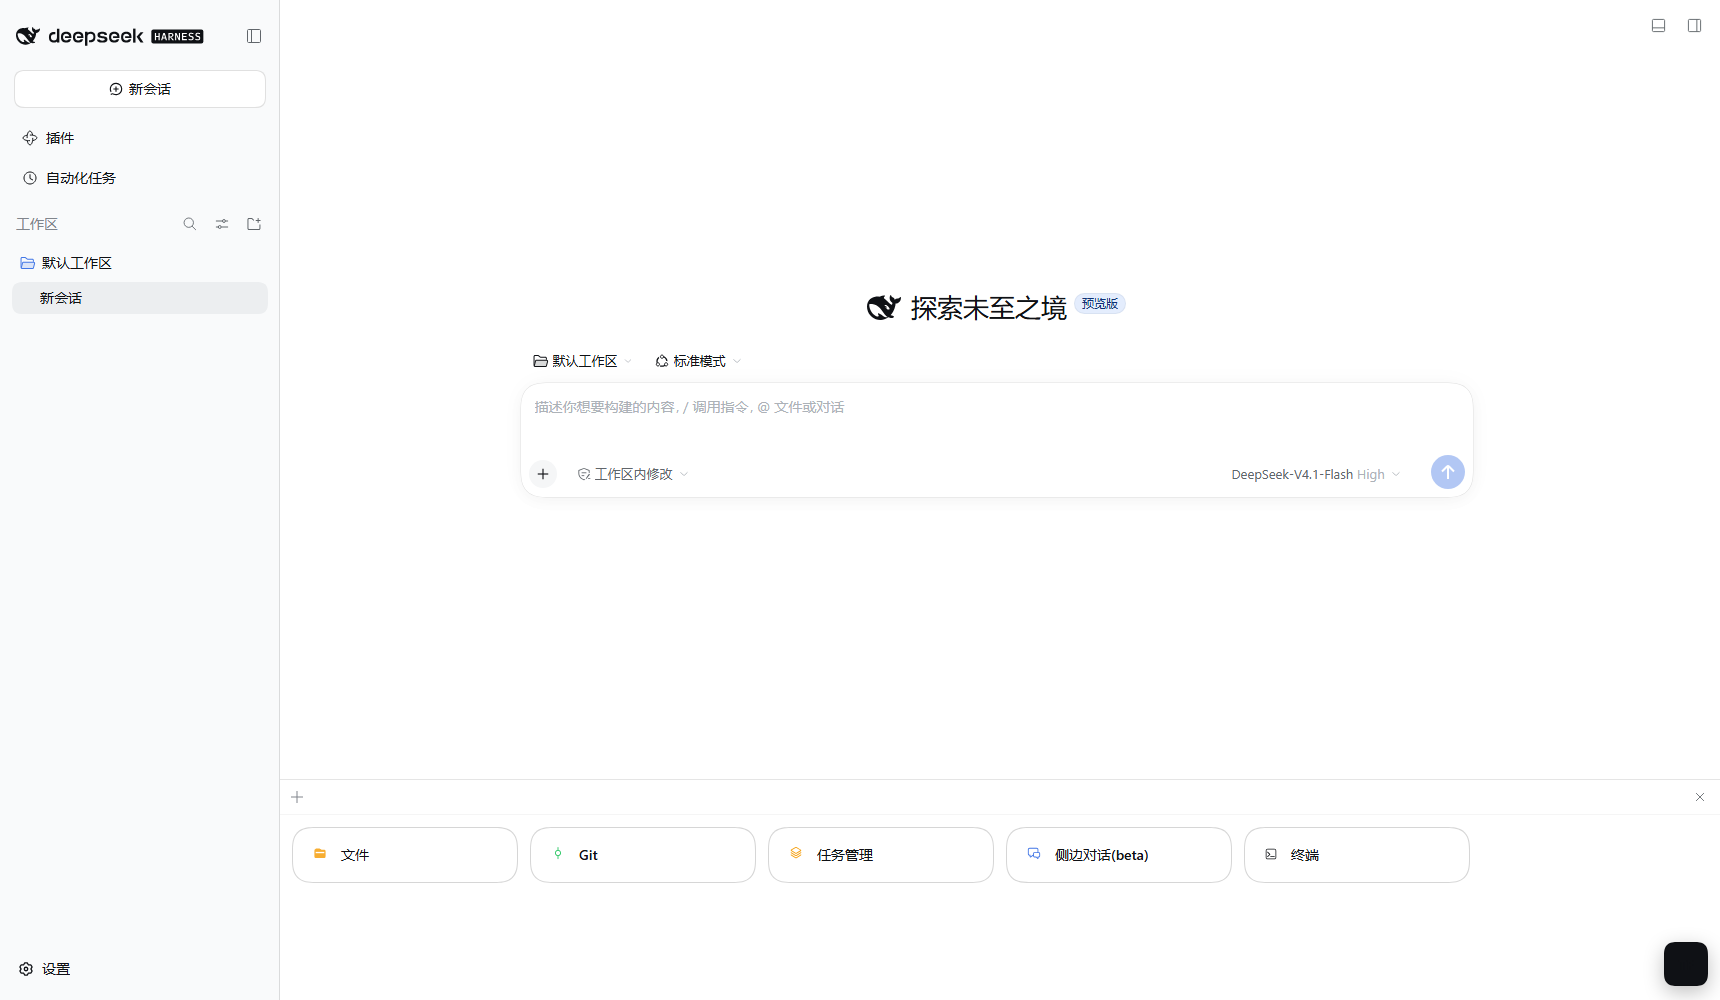
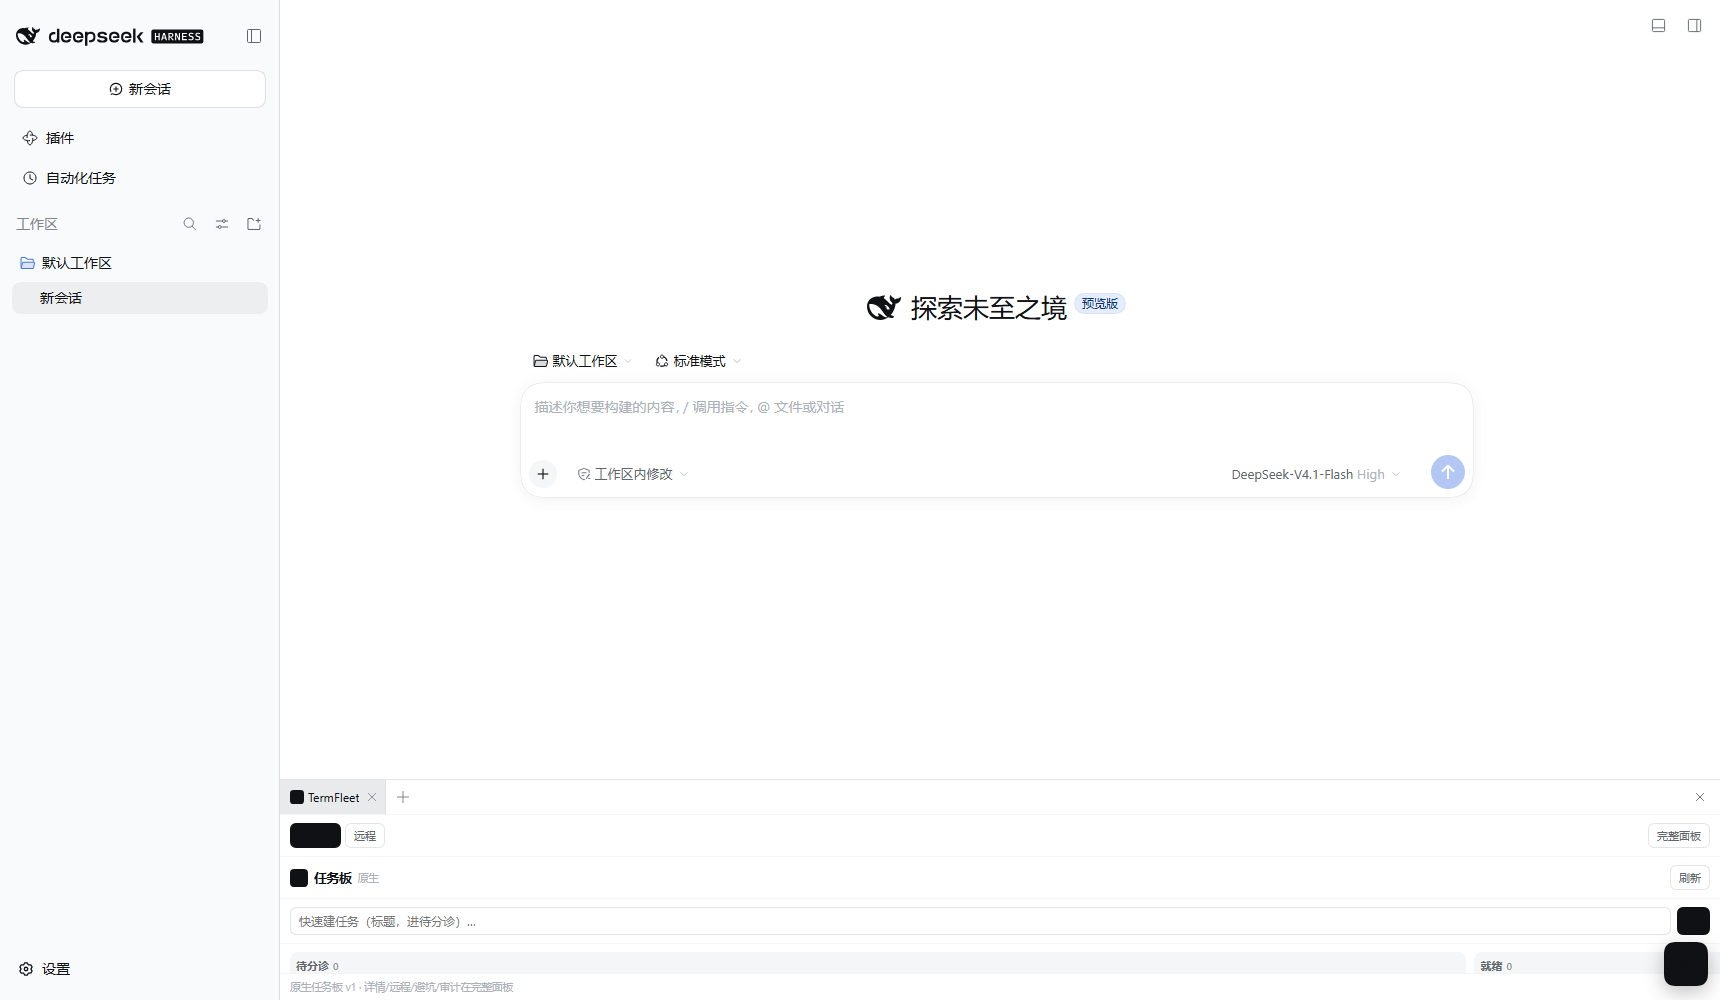
修复(用户活体报告 TF 一片空白):根因=better-sidebar 0.28 载入后其 dock 接管 pane 渲染,只渲染经 betterSidebar.registerTab 服务注册的 tab,直连 sidebarRightTabs 的注册被吞(fiber 解剖宿主 pane 注册表七项无 dsh-termfleet 实证);修复照搬 hippo 0.5 双路径模式——betterSidebar 服务在场改走 registerTab({component})并 dispose 直连,不在场保持直连;注意不把 betterSidebar 放 exports.inject(老宿主无此

diff --git a/lib/client.js b/lib/client.js
@@ -567,52 +567,76 @@ window.__ModuleLoader__.load({
 			];
 		}
 
-		// ── 导出（client cordis：inject 声明服务，apply 注册槽位） ──
+		// ── 导出（client cordis：inject 声明服务，apply 注册槽位）──
+		// 注意：不把 "betterSidebar" 放进 exports.inject（老宿主没有该服务会整插件激活失败）——
+		// better-sidebar 双路径走 apply 内的动态 ctx.inject（照 hippo 模式）。
 		exports.inject = ["slots", "sidebarRightTabs"];
 		exports.apply = function (ctx) {
 			try {
-				// 1) 官方右侧栏 tab 类型定义（与 dsh-client-ui-sidebar-files 同款 effect 包裹）
-				ctx.effect(function () {
-					return ctx.sidebarRightTabs.register({
-						id: "dsh-termfleet",
-						kind: "termfleet",
-						priority: "builtin",
-						title: function () { return "TermFleet"; },
-						guide: [{
-							order: 50,
-							title: function () { return "TermFleet 团队驾驶舱"; },
+				var disposeDirect = null;
+				var disposeBs = null;
+				// 直连路径：无 better-sidebar 时的注册方式（better-sidebar.tab 定义 + pane body/title + 0.1 utilities）
+				function registerDirect() {
+					if (disposeDirect) return;
+					var disposers = [];
+					disposers.push(ctx.effect(function () {
+						return ctx.sidebarRightTabs.register({
+							id: "dsh-termfleet",
+							kind: "termfleet",
+							keepMounted: true,
+							title: function () { return "TermFleet"; },
+							guide: [{
+								order: 50,
+								title: function () { return "TermFleet 团队驾驶舱"; },
+								description: function () { return "任务 / 远程 / 避坑 / 审计 · 全过统一同意总线"; },
+								icon: TfGuideIcon
+							}]
+						});
+					}, "dsh-termfleet: tab definition (key=termfleet)"));
+					disposers.push(ctx.slots.inject("sidebar.right.pane.tab", function () {
+						return ctx.slots.register(
+							{ name: "sidebar.right.pane.tab", key: "dsh-termfleet", registrant: "dsh-termfleet" },
+							function () { return h(TfTabBody); }
+						);
+					}));
+					disposers.push(ctx.slots.inject("sidebar.right.pane.tab.title", function () {
+						return ctx.slots.register(
+							{ name: "sidebar.right.pane.tab.title", key: "dsh-termfleet", registrant: "dsh-termfleet" },
+							function () { return h(TfTabTitle); }
+						);
+					}));
+					disposers.push(ctx.slots.inject("conversation.session.header.utilities", function () {
+						return ctx.slots.register(
+							{ name: "conversation.session.header.utilities", id: "dsh-termfleet:entry", order: 20, registrant: "dsh-termfleet" },
+							function () { return h(EntryPanel); }
+						);
+					}));
+					disposeDirect = function () { disposers.forEach(function (d) { try { d() } catch (e) { /* 幂等 */ } }) };
+				}
+				function disposeDirectAll() { if (disposeDirect) { disposeDirect(); disposeDirect = null } }
+				registerDirect();
+				// better-sidebar 0.28+ 双路径（照 hippo 模式）：其 "betterSidebar" 服务在场时改走 registerTab——
+				// 0.28 的 dock 会吞掉直连 sidebarRightTabs 的 tab（2026-10-15 实测：tab 从 pane 注册表消失）。
+				// 老宿主没有该服务时 ctx.inject 不触发，直连注册保持。
+				try {
+					ctx.inject(["betterSidebar"], function (sc) {
+						var svc = (sc && sc.get && sc.get("betterSidebar")) || null;
+						if (!svc || typeof svc.registerTab !== "function") return;
+						disposeDirectAll();
+						disposeBs = svc.registerTab({
+							id: "dsh-termfleet",
+							title: function () { return "TermFleet"; },
 							description: function () { return "任务 / 远程 / 避坑 / 审计 · 全过统一同意总线"; },
-							icon: TfGuideIcon
-						}]
+							icon: function (size) { return TfGuideIcon({ size: size }) },
+							order: 60,
+							single: true,
+							component: function () { return h(TfTabBody) }
+						});
+						return function () { if (disposeBs) { try { disposeBs() } catch (e) { /* 幂等 */ } } disposeBs = null; registerDirect(); };
 					});
-				}, "dsh-termfleet: tab definition (key=termfleet)");
+				} catch (e) { /* 宿主不支持动态服务注入：直连路径保持 */ }
 
-				// 2) 官方右侧栏 tab 主体
-				ctx.slots.inject("sidebar.right.pane.tab", function () {
-					return ctx.slots.register(
-						{ name: "sidebar.right.pane.tab", key: "dsh-termfleet" },
-						function () { return h(TfTabBody); }
-					);
-				});
-
-				// 3) 官方右侧栏 tab 标题
-				ctx.slots.inject("sidebar.right.pane.tab.title", function () {
-					return ctx.slots.register(
-						{ name: "sidebar.right.pane.tab.title", key: "dsh-termfleet" },
-						function () { return h(TfTabTitle); }
-					);
-				});
-
-				// 4) 会话头 utility 入口（0.1.x 槽位）
-				ctx.slots.inject("conversation.session.header.utilities", function () {
-					return ctx.slots.register(
-						{ name: "conversation.session.header.utilities", id: "dsh-termfleet:entry", order: 20, registrant: "dsh-termfleet" },
-						function () { return h(EntryPanel); }
-					);
-				});
-
-				// 5) 0.2.0 兼容：utilities 槽已删（回归实测只剩 corner），rightbar.session 已被 mf 占用
-				//    → shadow 它：同 key 注册更高优先级，先渲染原生内容再追加 TF 按钮（共左共存不覆盖）
+				// rightbar.session shadow + DOM 兜底按钮（既有）
 				ctx.slots.inject("rightbar.session", function () {
 					return ctx.slots.register(
 						{ name: "rightbar.session", key: "dsh-termfleet:shadow", priority: 1 },

diff --git a/docs/lib/decisions.md b/docs/lib/decisions.md
@@ -155,6 +155,10 @@ Host 头回落（优先级第三）在跨机经 lan-forwarder 时不可达——
 
 tab 主体改「任务板/远程」分段切换（共享完整面板按钮）。NativeRemoteView：fleet 2.5s 轮询成员卡；⚡请求查看（auto=ro 信任自动允许）/请求接管（rw 手动）；member-stream EventSource 对话流（sess 气泡按 type 分色、ack/followup-ack 回执「✓已送达」、end 收口）；插话框 rw 才启用，成功后本地 pending 气泡待 ack。**核心教训=interval 闭包里的 state 是挂载时快照（stale）**：选择/流状态/模式全部 ref 化（selRef/streamRef/modeRef），轮询只读 ref；自愈重订阅收窄为「streamRef==='无法订阅' 且通道已激活」——「已结束」（成员掉线）不自动重订防 2.5s 空转；consentFor 回调带 `selRef.current!==name` 竞态守卫（在途回包属于旧成员时丢弃）。**SSE 内建重连会重放环形缓冲**（服务端 retry:2000 + 每连接重放 ≤300 条）→ sess 事件按 `sessionId:seq` 去重（seenRef，startStream/select 时重置），重订不清 evs（插话本地气泡不丢）；ack 走独立事件类型 `ack`/`followup-ack`（sess 里也内嵌 __tf==='ack'，双路都监听）。评审处置：F1 重放去重/F2 自愈空转+掉线气泡丢失/F3 select 竞态守卫/F4 send 精确清空 input；死代码清理（不可达 native 分支/onIframe prop）。E2E verify-native-remote.cjs RN1-RN4（双实例+信任链+ack 断言）全绿；verify-native-board.cjs 6/6 回归（N6 选择器更新：完整面板按钮已挪共享头）。
 
+## 2026-10-18 · 侧边栏空白根因修复：better-sidebar 0.28 双路径接入（用户活体报告「TF 一片空白」）
+
+**用户活体报告打开 dsh 看 TF 一片空白**——在其 profile 实例（3099 只读查看）复现：tab 开着、`__tfClient='ok'`、但面板体空、全 DOM 无任何 TermFleet 元素；fiber 解剖宿主 pane 注册表=`editor/git/subagent/sidechat/terminal-bottom/hippo/dsh-sensenova-image:workbench` 七项，**唯独无 dsh-termfleet**。根因：**better-sidebar 0.28 载入后其 dock 接管 pane 渲染，只渲染经 `betterSidebar.registerTab` 服务注册的 tab；直连 sidebarRightTabs 的注册（我们旧方式）被吞**——hippo 0.5 早有双路径（`betterSidebarSvc` 检测+`syncDirectTab`+`registerTab({component})`）。修复照搬：apply 内直连注册保持（无 bs 宿主），新增 `ctx.inject(["betterSidebar"], …)` 动态双路径（服务在场→dispose 直连、改走 `svc.registerTab({id,title,description,icon,order,single,component})`；服务消失→恢复直连）。**注意：不把 "betterSidebar" 放进 exports.inject**（老宿主无此服务会整插件激活失败）；bs `single:true` 为 keep-alive 语义（切走隐藏不销毁，切回秒回——验收断言据此修正）。验毕：共存 C1-C4 全绿（0.28 在场 bs 路径挂载+切换+可交互）+ verify-native-board 6/6（无 bs 直连路径）+ verify-native-remote 4/4（bs 组件内远程视图）。教训：**插件共存问题必须拿到对方在场的活体环境才能定位**——Temp 无 0.28 时全绿是假阴性；fiber 解剖（`__reactFiber$` 上溯 memoizedProps）是读宿主私有注册表的利器。
+
 ## 2026-10-15 · 原生化渐进第一步：右栏 tab 原生任务板（React h()，flag 与 iframe 并存）
 
 TfTabBody 改为 flag 感知（`localStorage.tf_native_board`，默认原生）：NativeTaskBoard=6 列看板（ready 归并 ready-for-*、wontfix/archived 入「其他」兜底列）+卡片展开详情（验收勾选/待确认/UB_FLOW 状态流转按钮/认领/删除）+⚡会话徽标+快速建任务+6s 轮询；「完整面板」按钮切回 iframe 主体（远程/避坑/审计仍在完整面板），双向可切。数据全走既有鉴权路由（/tasks、/tasks/action，Bearer=localStorage.tf_token），401 显式转 auth banner（guard 的 401 响应无 ok 字段，不查状态码会显示假成功 hint——独立评审 F1）。**调试实录**：挂载后面板空+React #62 → WebFetch 解码（#62=style prop 传字符串）→ `var th="display:flex;…"` 字符串样式改对象即愈；`git stash` 对照实验证明 0.2.1-alpha.2 上旧 iframe tab 正常挂载（body:true、无 #62），排除宿主回归；宿主「layout: tab tab2 has no pane」为新旧都有的良性噪音（pageerror 门按此豁免）。评审 F2 修=非预期 pageerror 计入退出码。已知边界：详情仍是轻量版（文档正文/大纲/避坑在完整面板）；在途轮询卸载后 setSt 为 React 18 no-op（备案）。截图 nb-1-native-board.png；脚本 `node scripts/verify-native-board.cjs`（临时实例，零接触真实 3180）。
